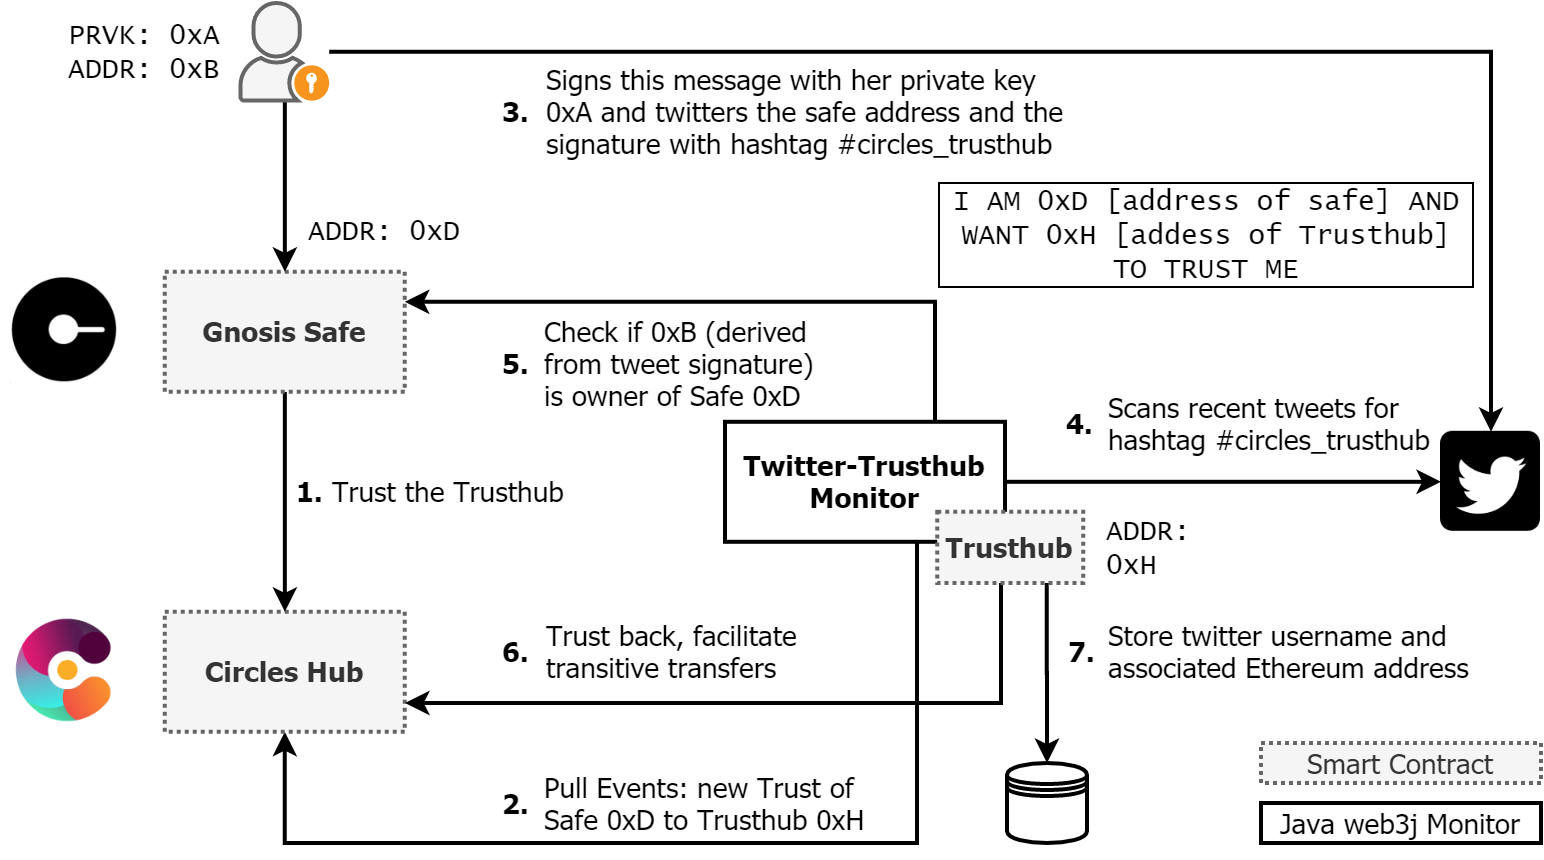
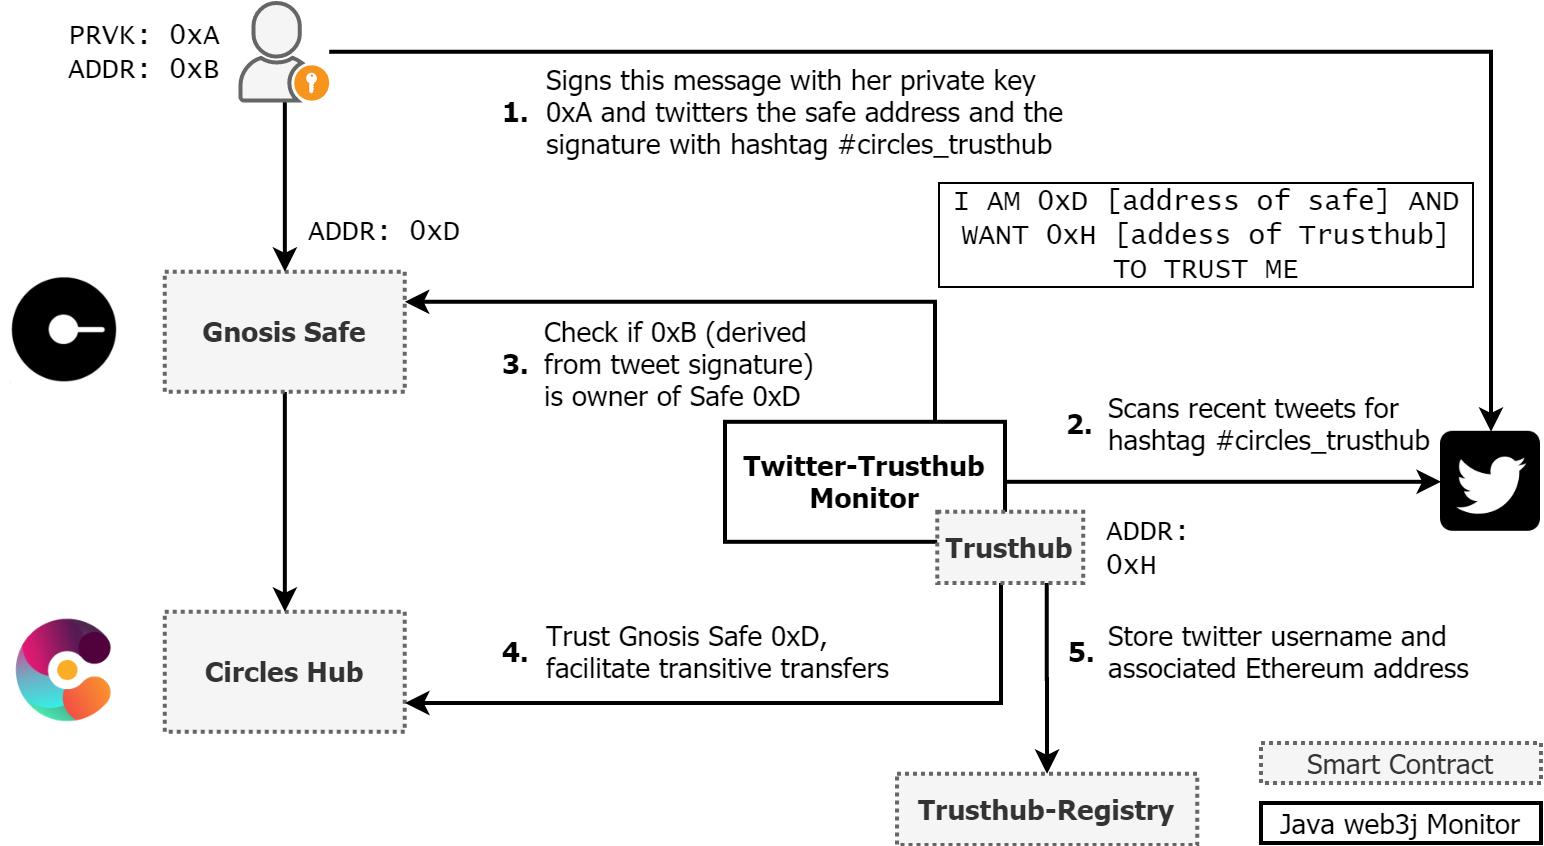
Change Trust Flow.

diff --git a/content/posts/circles-trusthub-for-verified-twitter-accounts.md b/content/posts/circles-trusthub-for-verified-twitter-accounts.md
@@ -1,7 +1,7 @@
 ---
 title: "Circles Trusthub for Verified Twitter Accounts"
 date: 2020-12-16T10:00:04+01:00
-draft: true
+draft: false
 ---
 
 {{<blockquote author="Warren Bennis">}}
@@ -60,10 +60,29 @@ In the overview below you see the communication between the several components, 
 </figure>
 
 1. Make sure you cannot pay trusthubmerchant with your Circles (CRC).
-2. Trust the Twitter Trusthub.
-3. Tweet the signed messaged.
-4. Wait for mutual trust by Trusthub.
-5. Pay trusthubmerchant via Trusthub.
+2. Tweet the signed messaged for Twitter Trusthub Smart Contract to trust User's Circle Gnosis Safe.
+3. Wait for trust by Trusthub.
+4. Pay trusthubmerchant via Trusthub with Trusthub Circles.
+
+#### Verify no Payment Route exists
+
+<figure >
+    <img src="/images/No_Trustpath.png"/>
+    <figcaption>Sending from trustcustomer to trustmerchant is not possible as there is no Trust Path.</figcaption> 
+</figure>
+
+#### Trust the Twitter Trusthub Smart Contract
+
+<figure >
+    <img src="/images/Trust_TwitterTrusthub.png"/>
+    <figcaption>Trust the Twitter Trusthub Smart Contract.</figcaption> 
+</figure>
+
+
+<figure >
+    <img src="/images/Trusthub-Transitive-Payments.png"/>
+    <figcaption>Create Trust Path from Customer to Merchant.</figcaption> 
+</figure>
 
 ## POAP as Trust Source
 
